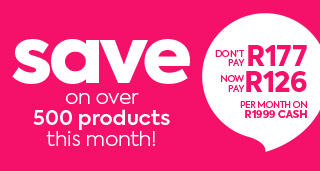
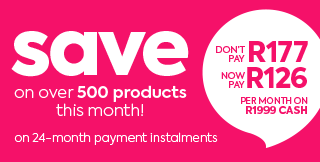
fonechoice changes and 24months WIP

diff --git a/dist/24-36months-offers.html b/dist/24-36months-offers.html
@@ -60,6 +60,7 @@
         </div>
       </div>
 
+      <!-- Tamiko -->
       <div class="row-no-gutters">
         <div
           class="col-xs-12 tamiko-desktop"
@@ -88,8 +89,6 @@
                   <img
                     class="img-responsive pull-right"
                     src="/file/general/24months/24MonthTermsLandingPage_BEDDING_Tamiko3.png"
-                    styl
-                    .main-hero-banner-mobie=""
                   />
                 </a>
               </div>
@@ -109,19 +108,126 @@
             </div>
           </div>
         </div>
-        <!-- desktop end -->
-        <div class="tamiko-mobile">
+      </div>
+      <!-- Tamiko desktop end -->
+
+      <div class="row">
+        <div class="col-sm-12 tamiko-mobile">
           <div class="col-sm-12">
             <a href="#">
               <img
-                class="img-responsive center-block mb20"
+                class="img-responsive center-block mb10"
                 src="/file/general/24months/24MonthTermsLandingPage_BEDDING_Tamiko1_mobi.png"
               />
             </a>
+
+            <a href="#">
+              <img
+                class="img-responsive center-block mb10"
+                src="/file/general//24months/Tamiko_mobi.png"
+              />
+            </a>
+            <div
+              class="tamiko-prod-desc-mobi center-block"
+              style="
+      max-width: 320px;
+  "
+            >
+              <strong>Tamiko 19-piece duvet set</strong>
+              <br />
+              <span>NOW ONLY R182 p/m x 24 months</span>
+              <br />
+              <strong>OR R2899 cash</strong>
+              <a href="#" class="tamiko-shop-now">SHOP NOW</a>
+            </div>
           </div>
         </div>
-        <!-- mobile end -->
       </div>
+      <!-- Tamiko mobile end -->
+
+      <!-- Hunter -->
+      <div class="row-no-gutters">
+        <div
+          class="col-xs-12 tamiko-desktop"
+          style="
+                  "
+        >
+          <div class="col-xs-6">
+            <div class="col-xs-12 df">
+              <div class="col-xs-6 pr20">
+                <a href="#">
+                  <img
+                    class="img-responsive"
+                    src="/file/general/24months/24MonthTermsLandingPage_BEDDING_Hunter2.png"
+                  />
+                </a>
+              </div>
+              <div class="col-xs-6 pr20">
+                <a href="#">
+                  <img
+                    class="img-responsive pull-right"
+                    src="/file/general/24months/24MonthTermsLandingPage_BEDDING_Hunter3.png"
+                  />
+                </a>
+              </div>
+            </div>
+
+            <div class="col-xs-12 hunter-prod-desc-container">
+              <div class="col-xs-6 hunter-prod-desc">
+                <strong>Hunter 14-piece duvet set</strong>
+                <br />
+                <span>NOW ONLY R126 p/m x 24 months</span>
+                <br />
+                <strong>OR R1999 cash</strong>
+              </div>
+              <div class="col-xs-6">
+                <a href="#" class="pull-right hunter-shop-now">SHOP NOW</a>
+              </div>
+            </div>
+          </div>
+          <div class="col-xs-6">
+            <a href=""
+              ><img
+                class="img-responsive"
+                src="/file/general/24months/24MonthTermsLandingPage_BEDDING_Hunter1.png"
+            /></a>
+          </div>
+        </div>
+      </div>
+      <!-- Hunter desktop end -->
+      <div class="row">
+        <div class="col-sm-12 tamiko-mobile">
+          <div class="col-sm-12">
+            <a href="#">
+              <img
+                class="img-responsive center-block mb10"
+                src="/file/general/24months/24MonthTermsLandingPage_BEDDING_Hunter1_mobi.png"
+              />
+            </a>
+
+            <a href="#">
+              <img
+                class="img-responsive center-block mb10"
+                src="/file/general//24months/Hunter_mobi.png"
+              />
+            </a>
+            <div
+              class="tamiko-prod-desc-mobi center-block"
+              style="
+        max-width: 320px;
+    "
+            >
+              <strong>Hunter 14-piece duvet set</strong>
+              <br />
+              <span>NOW ONLY R126 p/m x 24 months</span>
+              <br />
+              <strong>OR R1999 cash</strong>
+              <a href="#" class="tamiko-shop-now">SHOP NOW</a>
+            </div>
+          </div>
+        </div>
+      </div>
+      <!-- Hunter mobile end -->
     </div>
   </body>
 </html>

diff --git a/dist/css/24-36months-offers.css b/dist/css/24-36months-offers.css
@@ -10,6 +10,14 @@ body {
   padding-left: 20px !important;
 }
 
+.pr20 {
+  padding-right: 20px !important;
+}
+
+.mb10 {
+  margin-bottom: 10px;
+}
+
 .mb20 {
   margin-bottom: 20px;
 }
@@ -37,9 +45,21 @@ body {
   text-align: center;
   background: #f01882;
   color: white;
-  padding: 10px 30px;
+  padding: 10px;
   line-height: 20px;
   margin-top: 20px !important;
+  width: 70%;
+}
+
+.hunter-shop-now {
+  display: block;
+  text-align: center;
+  background: #f01882;
+  color: white;
+  padding: 10px;
+  line-height: 20px;
+  margin: 20px 20px 0 0 !important;
+  width: 70%;
 }
 
 .tamiko-prod-desc-container {
@@ -50,13 +70,36 @@ body {
   padding-left: 20px !important;
 }
 
+.hunter-prod-desc {
+  padding-right: 20px !important;
+}
+
 .tamiko-prod-desc span {
+  color: #f01882;
+}
+
+.tamiko-prod-desc-mobi {
+  max-width: 320px;
+}
+
+.tamiko-prod-desc-mobi span {
+  color: #f01882;
+}
+
+.hunter-prod-desc-container {
+  padding-top: 10px;
+}
+
+.hunter-prod-desc {
+}
+
+.hunter-prod-desc span {
   color: #f01882;
 }
 
 .tamiko-desktop {
   display: block;
-  margin-bottom: 20px;
+  margin-bottom: 40px;
 }
 
 .tamiko-mobile {
@@ -69,7 +112,7 @@ body {
 }
 
 @media all and (max-width: 600px) and (min-width: 461px) {
-  .tamiko-shop-now {
+  /* .tamiko-shop-now {
     display: block;
     text-align: center;
     background: #f01882;
@@ -77,11 +120,26 @@ body {
     padding: 10px;
     line-height: 20px;
     margin-top: 20px !important;
-  }
+  } */
+
+  /* .hunter-shop-now {
+    display: block;
+    text-align: center;
+    background: #f01882;
+    color: white;
+    padding: 10px;
+    line-height: 20px;
+    margin: 20px 20px 0 0 !important;
+  } */
 
   .tamiko-prod-desc {
     padding-left: 20px !important;
     line-height: 16px;
+  }
+
+  .hunter-prod-desc {
+    line-height: 16px;
+    padding-right: 20px !important;
   }
 }
 
@@ -106,5 +164,16 @@ body {
   .tamiko-mobile {
     display: block;
     margin-bottom: 20px;
+  }
+
+  .tamiko-shop-now {
+    display: block;
+    text-align: center;
+    background: #f01882;
+    color: white;
+    padding: 10px;
+    line-height: 20px;
+    margin-top: 10px !important;
+    width: 50%;
   }
 }

diff --git a/dist/fonechoice.html b/dist/fonechoice.html
@@ -159,7 +159,7 @@
             <div class="row text-center">
                     <a name="prestigio-smartbook-bundle"></a>
                 <div class="col-md-12 hidden-xs mb-30">
-                    <a href="mailto:info@fonechoice.co.za">
+                    <a href="mailto:info@fonechoice.co.za?subject=Prestigio smartbook bundle">
                         <img src="/file/general/20191101_NovCat_Fonechoice_8.jpg?01102019" style="width: 100%;">
                     </a>
                 </div>
@@ -661,8 +661,9 @@
             </div>
             </div>
 
-            <a name="hisense-cellphones"></a>
+            
             <div class="FonechoiceBig Orange" style="padding: 0; border-bottom: none; margin-bottom: 20px;padding-top: 3px;border: none !important;"><img class="MarginTopMinusThree" src="/file/general/2019_SepCat_FoneChoice_Fonechoice_25_NEW.jpg?01102019" width="100%"></div>
+            <a name="hisense-cellphones"></a>
             <p></p>
 
             <div class="col-md-12" style="
